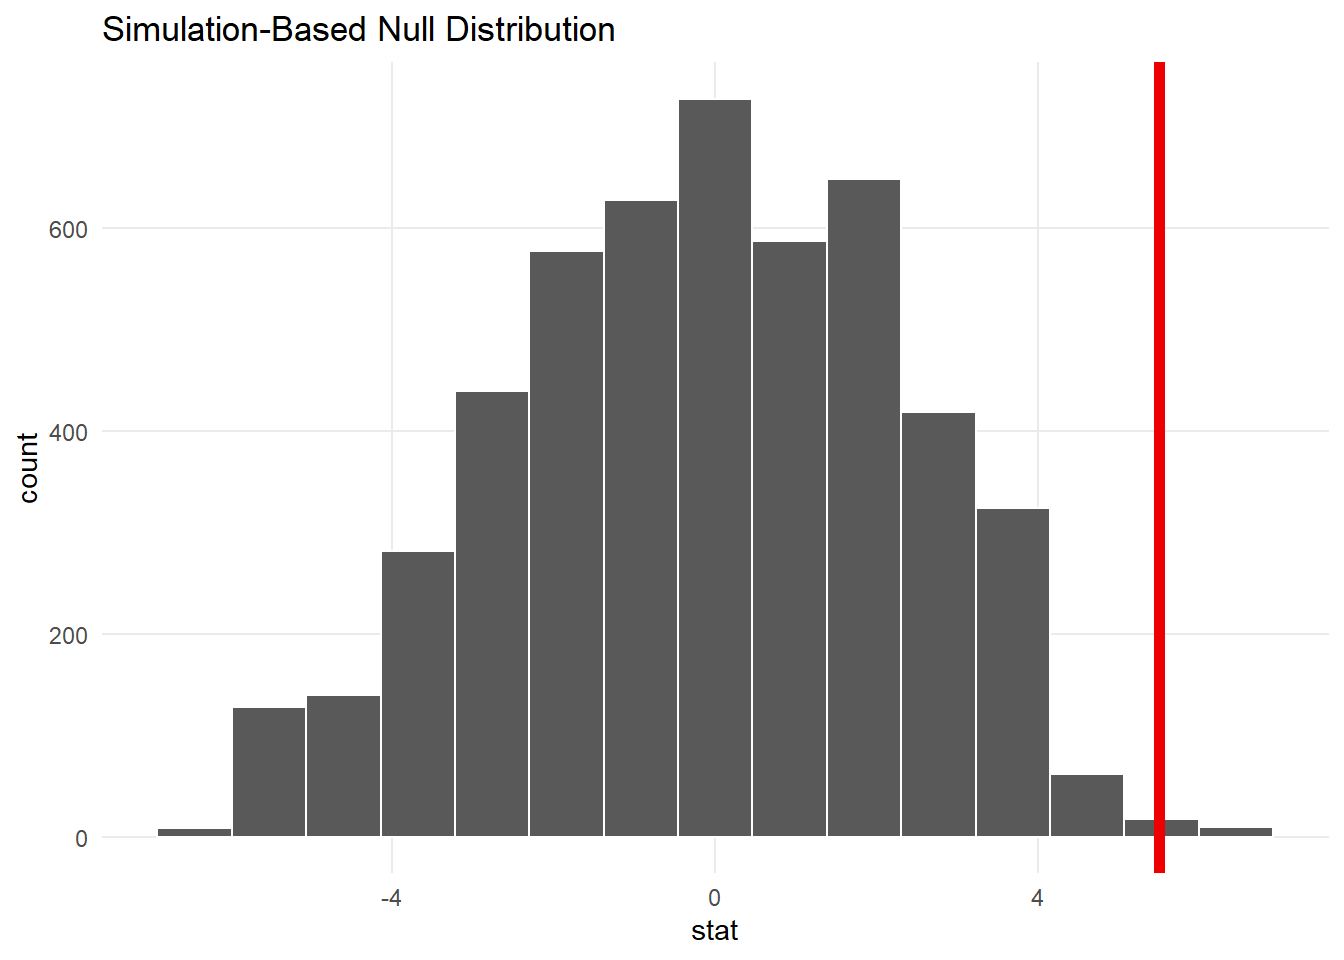
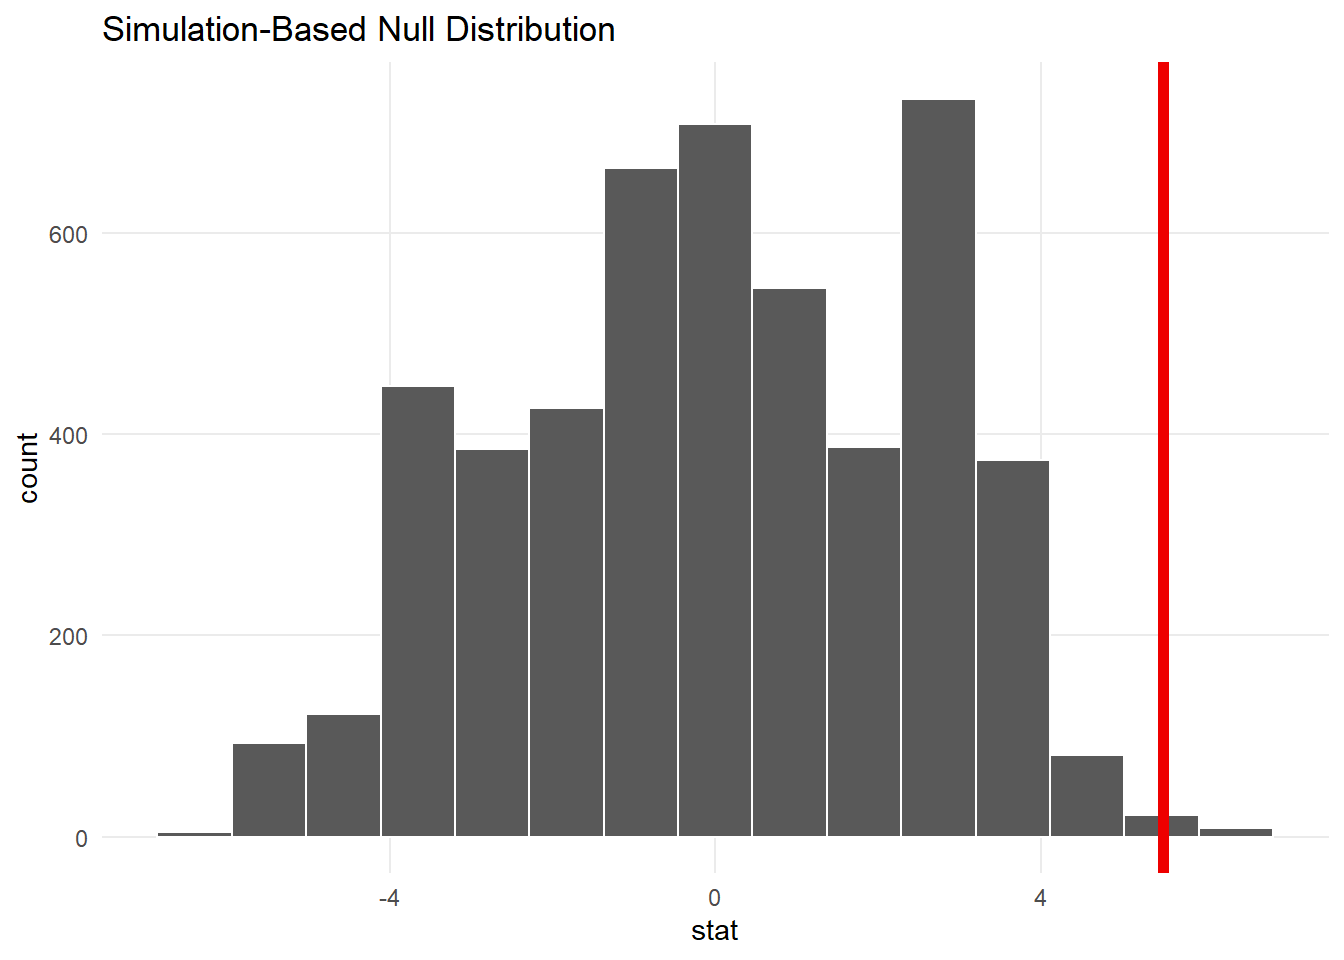
minor updates

diff --git a/content/post/2019-06-27-hypothesis-testing-made-simple.html b/content/post/2019-06-27-hypothesis-testing-made-simple.html
@@ -51,31 +51,10 @@ resample from our original data without replacement, each time shuffling the <co
 <h2>Now let’s take an example</h2>
 <p>Question:- Is an automatic or manual transmission better for mpg ?</p>
 <p>Dataset</p>
-<pre class="r"><code>library(tidyverse)</code></pre>
-<pre><code>## -- Attaching packages ---------------------------- tidyverse 1.2.1 --</code></pre>
-<pre><code>## v ggplot2 3.2.0     v purrr   0.3.2
-## v tibble  2.1.3     v dplyr   0.8.1
-## v tidyr   0.8.3     v stringr 1.4.0
-## v readr   1.3.1     v forcats 0.4.0</code></pre>
-<pre><code>## -- Conflicts ------------------------------- tidyverse_conflicts() --
-## x dplyr::filter() masks stats::filter()
-## x dplyr::lag()    masks stats::lag()</code></pre>
-<pre class="r"><code>library(ggridges)</code></pre>
-<pre><code>## 
-## Attaching package: &#39;ggridges&#39;</code></pre>
-<pre><code>## The following object is masked from &#39;package:ggplot2&#39;:
-## 
-##     scale_discrete_manual</code></pre>
-<pre class="r"><code>library(scales)</code></pre>
-<pre><code>## 
-## Attaching package: &#39;scales&#39;</code></pre>
-<pre><code>## The following object is masked from &#39;package:purrr&#39;:
-## 
-##     discard</code></pre>
-<pre><code>## The following object is masked from &#39;package:readr&#39;:
-## 
-##     col_factor</code></pre>
-<pre class="r"><code>library(infer)
+<pre class="r"><code>library(tidyverse)
+library(ggridges)
+library(scales)
+library(infer)
 mtcars %&gt;% mutate(type = ifelse(am == 1, &quot;manual&quot;, &quot;automatic&quot;)) %&gt;% glimpse() -&gt;mtcars_dataset</code></pre>
 <pre><code>## Observations: 32
 ## Variables: 12
@@ -99,7 +78,6 @@ mtcars %&gt;% mutate(type = ifelse(am == 1, &quot;manual&quot;, &quot;automatic&
   labs(x = &quot;mpg for type of cars&quot;, y = NULL) +
   theme_minimal() +
   theme(panel.grid.minor = element_blank())</code></pre>
-<pre><code>## Picking joint bandwidth of 2.45</code></pre>
 <p><img src="/post/2019-06-27-hypothesis-testing-made-simple_files/figure-html/unnamed-chunk-2-1.png" width="672" /></p>
 <p>Null Hypothesis :- The median of mpg of automatic and manual transmission cars are same.</p>
 <p>Step 1: -<br />
@@ -123,15 +101,11 @@ We can use the infer package to determine the exact difference in the medians of
   hypothesize(null = &quot;independence&quot;) %&gt;% 
   generate(reps = 5000) %&gt;% 
   calculate(&quot;diff in medians&quot;, order = c(&quot;manual&quot;, &quot;automatic&quot;))</code></pre>
-<pre><code>## Setting `type = &quot;permute&quot;` in `generate()`.</code></pre>
 <p>Visualize</p>
 <pre class="r"><code>mtcars_null_dataset %&gt;% 
   visualize(obs_stat = diff_prop)+
   theme_minimal()+
   theme(panel.grid.minor = element_blank())</code></pre>
-<pre><code>## Warning: `visualize()` shouldn&#39;t be used to plot p-value. Arguments
-## `obs_stat`, `obs_stat_color`, `pvalue_fill`, and `direction` are
-## deprecated. Use `shade_p_value()` instead.</code></pre>
 <p><img src="/post/2019-06-27-hypothesis-testing-made-simple_files/figure-html/unnamed-chunk-5-1.png" width="672" /></p>
 <p>Note that red line is pretty far in the right tail of the distribution and seems atypical. We can calculate the probability of seeing a difference as big as 5.5 with the <code>get_value()</code> function.</p>
 <p>Here we specify the <code>direction = "both"</code> to get two tailed p-value since we care about only the difference between mean or median(as difference could be negative if flip the order).</p>
@@ -140,6 +114,6 @@ We can use the infer package to determine the exact difference in the medians of
 <pre><code>## # A tibble: 1 x 1
 ##   p_value
 ##     &lt;dbl&gt;
-## 1   0.008</code></pre>
+## 1  0.0076</code></pre>
 <p>The point here is that there is only 0.88% of chance of seeing a difference at least as large as 5.5 in a world there is no difference. Its pretty strong evidence and we feel confident that there’s a statistically significant difference between mpg of automatic and manual where manual cars give more mpg than automatic cars.</p>
 </div>

diff --git a/content/post/2019-06-14-machine-learning-pipeline-in-python.html b/content/post/2019-06-14-machine-learning-pipeline-in-python.html
@@ -28,15 +28,4 @@ keywords:
 <div id="pipeline-for-regression-problem-in-python" class="section level4">
 <h4>Pipeline for regression problem in python</h4>
 <script src="https://gist.github.com/vidyasagarbhargava/41f195a6a037bcdf4ffd522826c42c11.js"></script>
-<p><br></p>
-<p>Here another way 1</p>
-<pre><code>{% gist f54a6fcc13e1ec2d32e70ee7fdbd0790 [ml_pipeline.ipynb] %}</code></pre>
-<p><br>
-Here another way 2</p>
-<pre><code>{% raw %}
-{% gist f54a6fcc13e1ec2d32e70ee7fdbd0790 ml_pipeline.ipynb %}</code></pre>
-<p><br></p>
-<p>here another way 4</p>
-<pre><code>{% gist f54a6fcc13e1ec2d32e70ee7fdbd0790 vidyasagarbhargava/ml_pipeline.ipynb %}
-</code></pre>
 </div>
